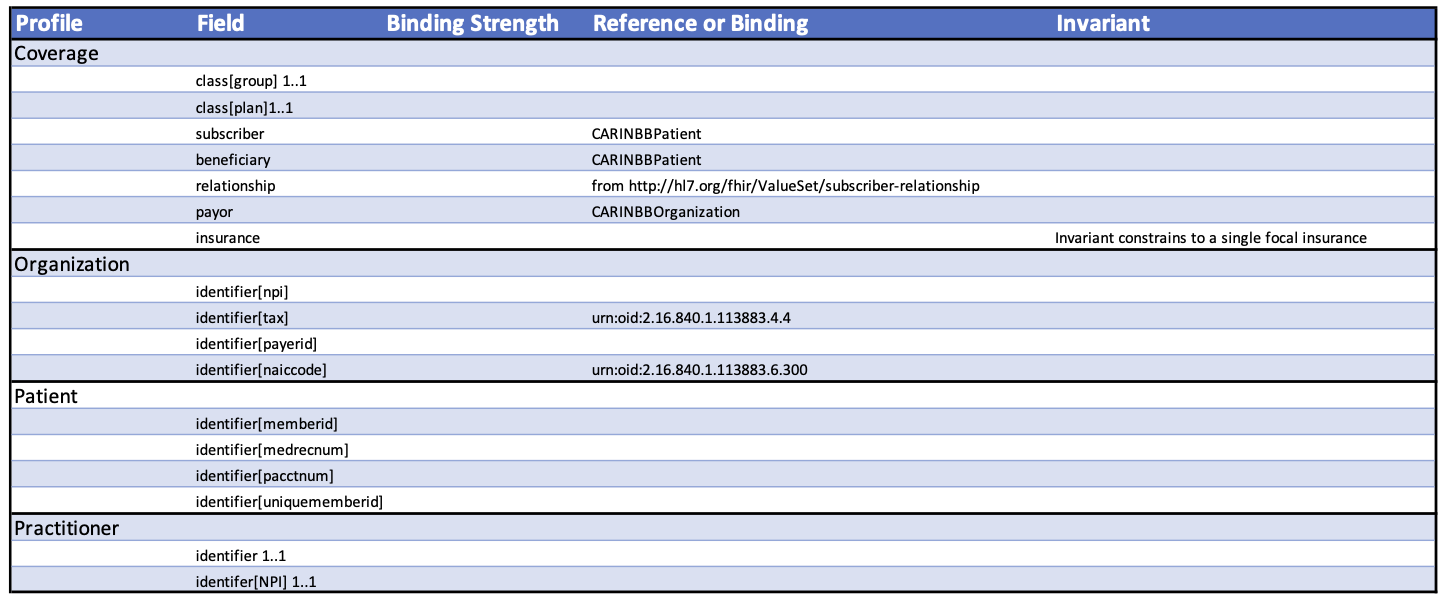
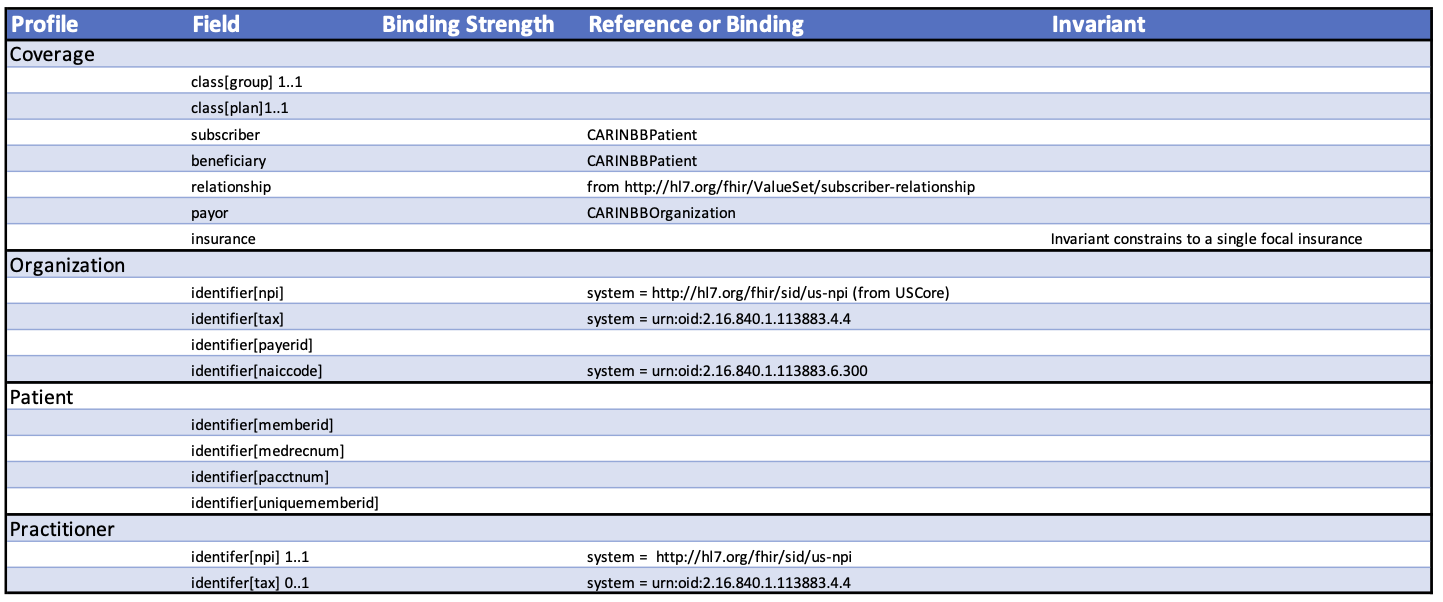
updated OtherProfileComparison.png and changelog notes

Changed region(s): [[0.0, 0.0, 0.9979, 1.0]]

diff --git a/fsh/ig-data/input/pagecontent/index.md b/fsh/ig-data/input/pagecontent/index.md
@@ -13,19 +13,19 @@
 <p>This implementation guide describes the CARIN for Blue Button&reg; <sup>[<a href="#ftn.id1" name="id1">*</a>]</sup> Framework and Common Payer Consumer Data Set (CPCDS), providing a set of resources that payers can display to consumers via a FHIR API. See the <a href="toc.html">Table of Contents</a> for more information.</p>
 <h3>Log of Continuous Integration Build Changes</h3>
 <ul>
-<li>Interim Version 0.1.6 - October 12+, 2020</li>
+<li>Interim Version 0.1.6 - October 14, 2020</li>
 <ol>
 <li>Please post comments to the CarinBB zulip <a href="https://chat.fhir.org/#narrow/stream/204607-CARIN-IG.20for.20Blue.20Button.C2.AE"> stream</a>.</li>
 <li>Updates to MS and cardinality of various fields in EOB profiles and Patient profile.  Note that some supportingInfo slices now have cardinality 1..1. </li>
 <li>Removed: "The inoutnetwork slice of total is now incorporated into supportingInfo, where it is a better fit."  This was a misunderstanding.</li>
-<li>The graphic comparing EOB profiles has not yet been updated</li>
+<li>The graphic comparing non-EOB profiles has been updated</li>
 <li>Correction to slicing of Patient.identifier that lead to weird rendering issue in IG Publisher</li>
+<li>The short descriptions on all CPCDS-related fields/slices have been updated</li>
 </ol>
 <li>Interim Version 0.1.5 - October 9, 2020</li>
 <ol>
 <li>Updates to MS and cardinality of various fields in EOB profiles and Patient profile.  Note that some supportingInfo slices now have cardinality 1..1. </li>
 <li>The inoutnetwork slice of total is now incorporated into supportingInfo, where it is a better fit.  This change may not be complete.</li>
-<li>The graphic comparing EOB profiles has not yet been updated to incorporate the changes between v0.1.4 and v0.1.5.</li>
 <li>Correction to slicing of Organization.identifier that lead to weird rendering issue in IG Publisher</li>
 <li>Correction to slicing of item.adjudication in EOB profiles.  All slicing definitions are now consistent across these profiles.</li>
 <li>Examples for all profiles. Remaining validation errors are due to HL7 terminology issues, not with the examples.</li>
